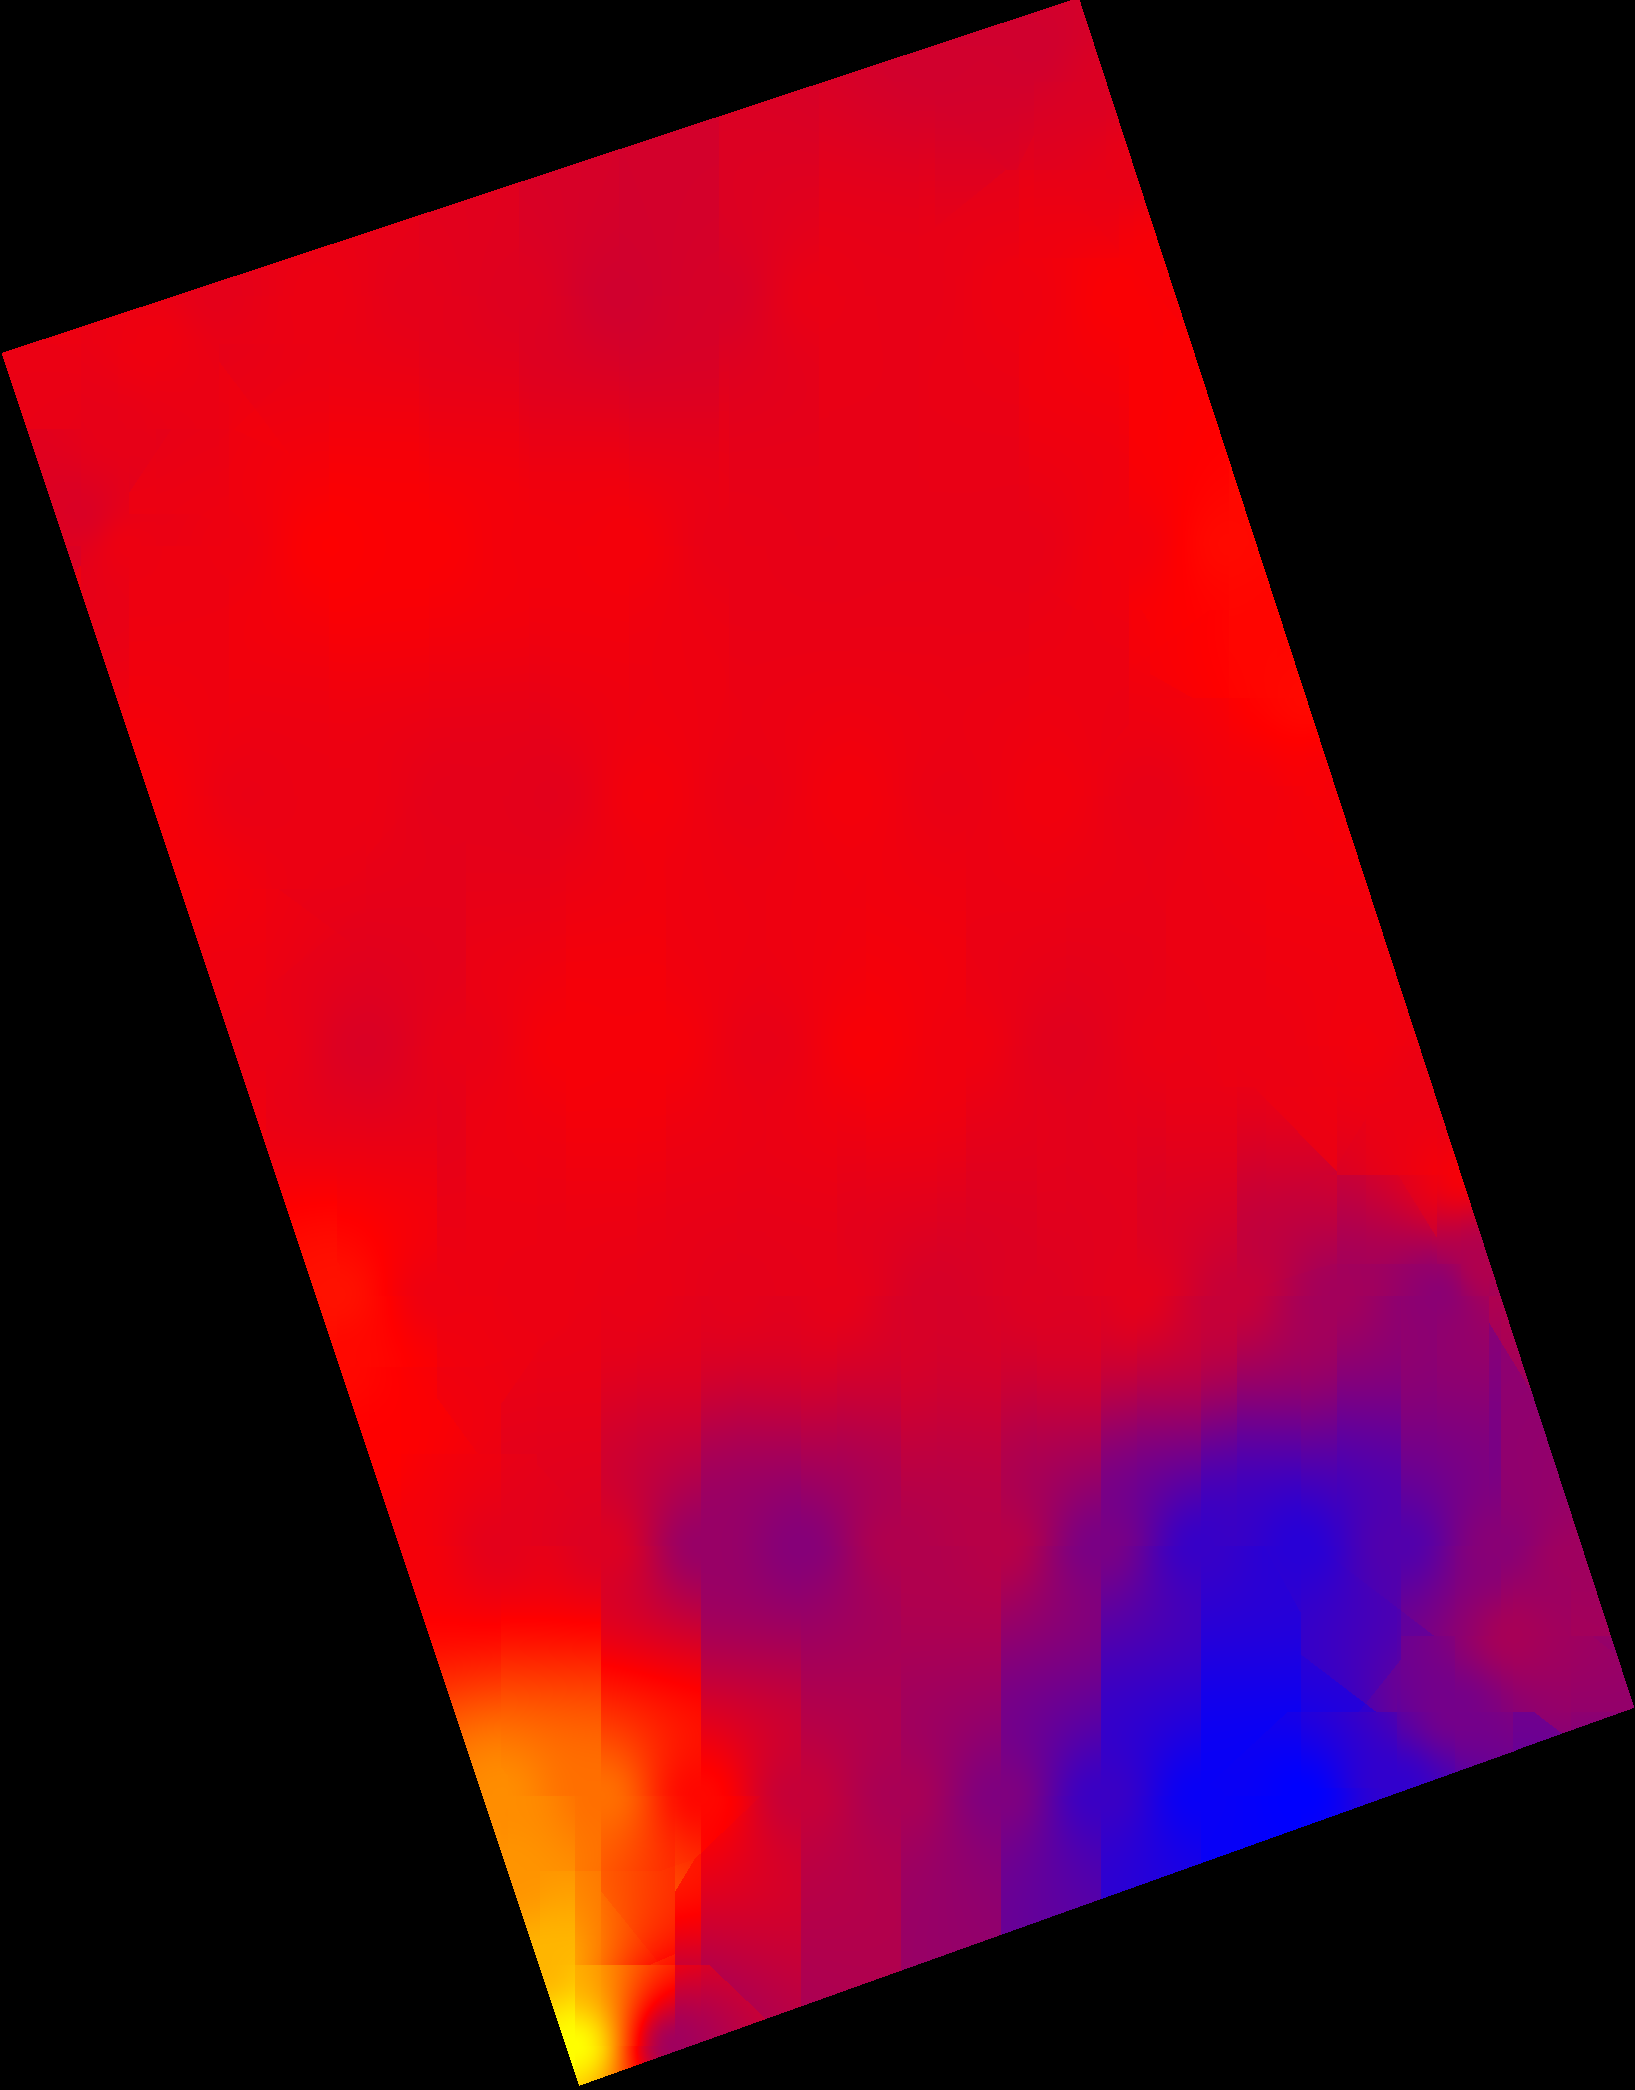
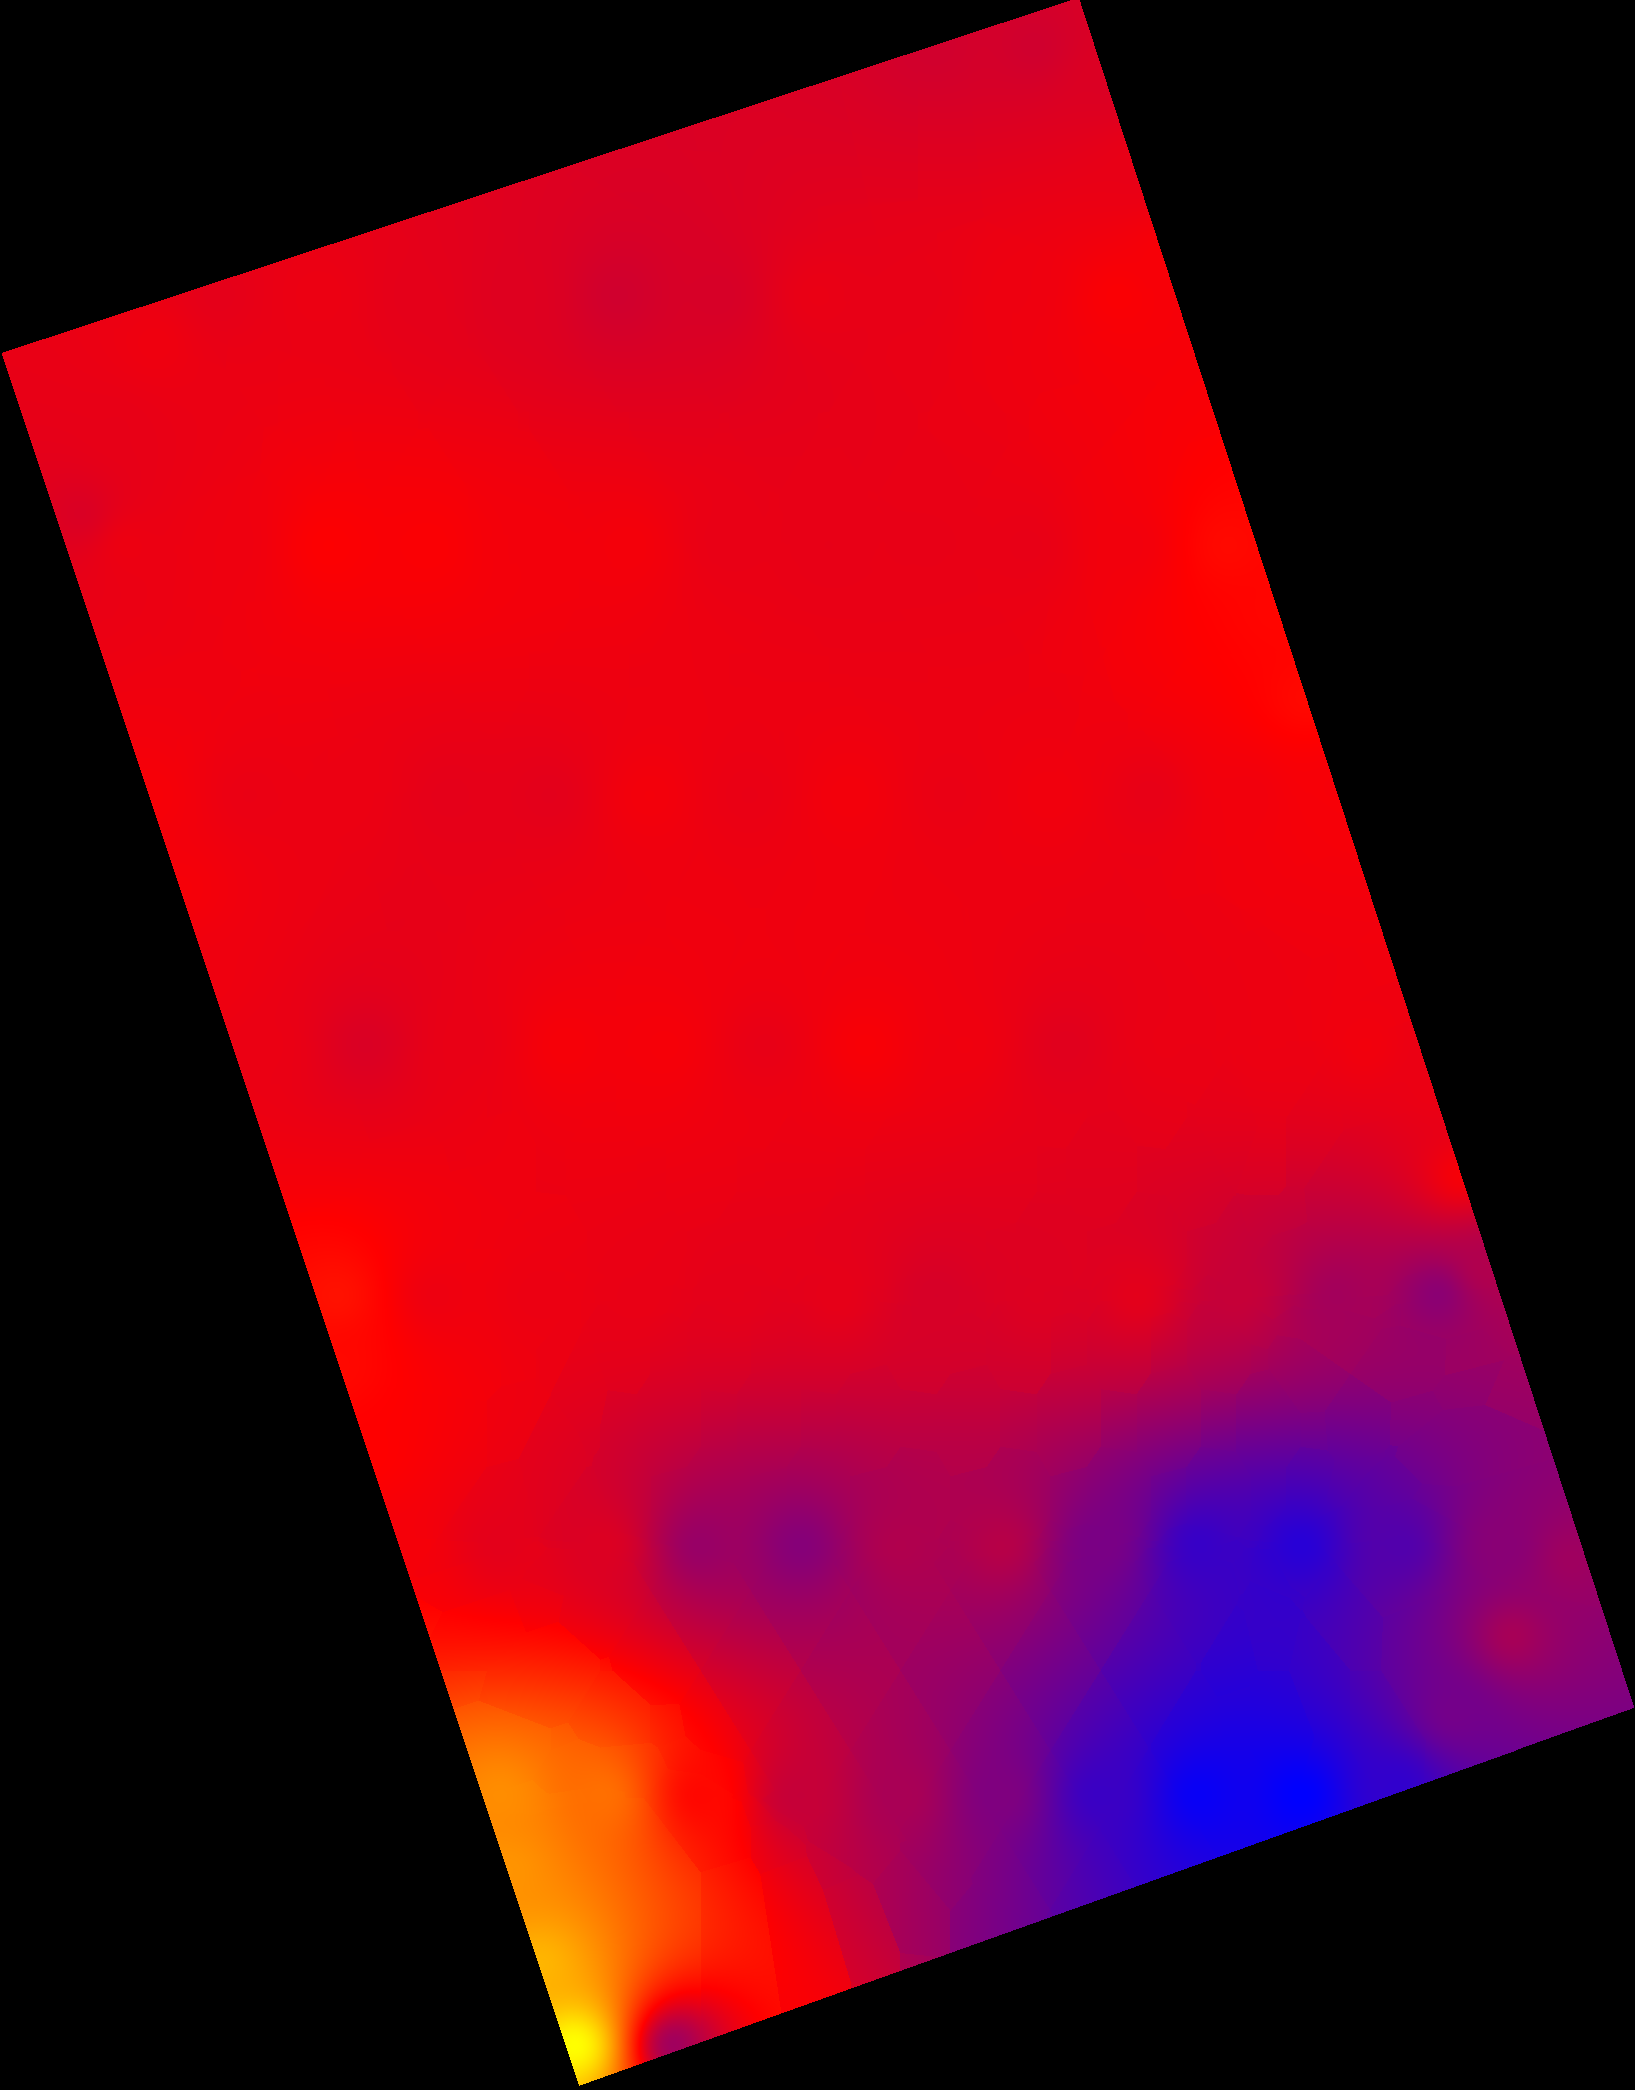
algoritmo con kdtrees

diff --git a/simulations/src/processing/interpolation.rs b/simulations/src/processing/interpolation.rs
@@ -1,3 +1,5 @@
+use kiddo::{KdTree, SquaredEuclidean};
+
 use crate::structs::depth_matrix::DepthMatrix;
 use crate::processing::measuring::calculate_distance_between_points;
 
@@ -60,95 +62,168 @@ pub fn interpolacion_jullen_theorem(measuring_points: &Vec<(usize, usize)>, meas
     interpolation
 }
 
-pub fn interpolacion_reintento(
-    measuring_points: &Vec<(usize, usize)>,
-    matrix: &Vec<Vec<f64>>,
-    geotiff: &DepthMatrix,
-) -> Vec<Vec<f64>> {
-    let no_data = geotiff.no_data.unwrap_or(f64::MAX);
+// pub fn interpolacion_reintento(
+//     measuring_points: &Vec<(usize, usize)>,
+//     matrix: &Vec<Vec<f64>>,
+//     geotiff: &DepthMatrix,
+// ) -> Vec<Vec<f64>> {
+//     let no_data = geotiff.no_data.unwrap_or(f64::MAX);
+//     let mut result = vec![vec![0.0; matrix[0].len()]; matrix.len()];
+
+//     for j in 0..matrix.len() {
+//         for i in 0..matrix[0].len() {
+//             if geotiff.data[j][i] == no_data {
+//                 result[j][i] = no_data;
+//             } else if matrix[j][i] != 0.0 {
+//                 result[j][i] = matrix[j][i];
+//             } else {
+//                 let vecinos = pick_by_quadrant(measuring_points, matrix, (i, j));
+
+//                 let mut weighted_sum = 0.0;
+//                 let mut weight_total = 0.0;
+//                 for (dist, val) in &vecinos {
+//                     if *dist == 0.0 { result[j][i] = *val; break; }
+//                     let weight = 1.0 / dist.powf(2.0);
+//                     weighted_sum += val * weight;
+//                     weight_total += weight;
+//                 }
+//                 if weight_total > 0.0 {
+//                     result[j][i] = weighted_sum / weight_total;
+//                 }
+//             }
+//         }
+//     }
+//     result
+// }
+
+// fn calculate_estimated_value(
+//     measures: &Vec<(usize, usize)>,
+//     matrix: &Vec<Vec<f64>>,
+//     current_point: (usize, usize),
+// ) -> f64 {
+//     let mut weighted_sum = 0.0;
+//     let mut weight_total = 0.0;
+
+//     for point in measures {
+//         let dx = current_point.0 as f64 - point.0 as f64;
+//         let dy = current_point.1 as f64 - point.1 as f64;
+//         let dist = (dx * dx + dy * dy).sqrt();
+
+//         if dist == 0.0 {
+//             return matrix[point.1][point.0];
+//         }
+
+//         let weight = 1.0 / dist;
+//         weighted_sum += matrix[point.1][point.0] * weight;
+//         weight_total += weight;
+//     }
+
+//     weighted_sum / weight_total
+// }
+
+// fn pick_by_quadrant(
+//     measures: &Vec<(usize, usize)>,
+//     matrix: &Vec<Vec<f64>>,
+//     current_point: (usize, usize),
+// ) -> Vec<(f64, f64)> {
+//     // NE, NW, SE, SW
+//     let mut quadrants: [Option<(f64, f64)>; 4] = [None; 4];
+
+//     for point in measures {
+//         let dx = point.0 as f64 - current_point.0 as f64;
+//         let dy = point.1 as f64 - current_point.1 as f64;
+//         let dist = (dx * dx + dy * dy).sqrt();
+
+//         if dist == 0.0 {
+//             return vec![(0.0, matrix[point.1][point.0])];
+//         }
+
+//         let val = matrix[point.1][point.0];
+//         let idx = match (dx >= 0.0, dy >= 0.0) {
+//             (true,  true)  => 0, // SE
+//             (false, true)  => 1, // SW
+//             (true,  false) => 2, // NE
+//             (false, false) => 3, // NW
+//         };
+
+//         // Guardamos el más cercano de cada cuadrante
+//         if quadrants[idx].is_none() || dist < quadrants[idx].unwrap().0 {
+//             quadrants[idx] = Some((dist, val));
+//         }
+//     }
+
+//     quadrants.iter().filter_map(|q| *q).collect()
+// }
+
+//Usamos la misma logica que venimos usando de idw, pero esta estara limitada por los puntos mas cercanos.
+//El Kdtree es solo para reducir el tiempo de busqueda.
+pub fn interpolation_idw_kdtrees(measuring_points: &Vec<(usize, usize)>, matrix: &Vec<Vec<f64>>, geotiff: &DepthMatrix) -> Vec<Vec<f64>> {
+    
+    let no_data: f64 = match geotiff.no_data {
+        Some(val) => val,      
+        None => f64::MAX,  
+    };
+
     let mut result = vec![vec![0.0; matrix[0].len()]; matrix.len()];
+
+    // Construimos el KD-tree con los puntos medidos
+    let mut kdtree: KdTree<f64, 2> = KdTree::new();
+    let mut values: Vec<f64> = Vec::new();
+
+    for point in measuring_points {
+        let depth = matrix[point.1][point.0];
+        if depth != 0.0 && depth != no_data {
+            kdtree.add(&[point.0 as f64, point.1 as f64], values.len() as u64);
+            values.push(depth);
+        }
+    }
+
+    if values.is_empty() {
+        return result;
+    }
 
     for j in 0..matrix.len() {
         for i in 0..matrix[0].len() {
             if geotiff.data[j][i] == no_data {
                 result[j][i] = no_data;
-            } else if matrix[j][i] != 0.0 {
-                result[j][i] = matrix[j][i];
-            } else {
-                let vecinos = pick_by_quadrant(measuring_points, matrix, (i, j));
+                continue;
+            }
 
-                let mut weighted_sum = 0.0;
-                let mut weight_total = 0.0;
-                for (dist, val) in &vecinos {
-                    if *dist == 0.0 { result[j][i] = *val; break; }
-                    let weight = 1.0 / dist.powf(2.0);
-                    weighted_sum += val * weight;
-                    weight_total += weight;
+            if matrix[j][i] != 0.0 {
+                result[j][i] = matrix[j][i];
+                continue;
+            }
+
+            //Es por este bloque que usamos kiddo.
+            //Lo usammos para encontrar los 8 vecinos cercanos, y almacena la distancia y valor.
+            let neighbours = kdtree.nearest_n::<SquaredEuclidean>(
+                &[i as f64, j as f64],
+                8,
+            );
+
+            let mut weighted_sum = 0.0;
+            let mut weight_total = 0.0;
+
+            for neighbour in neighbours {
+                let dist = neighbour.distance.sqrt();
+                let val = values[neighbour.item as usize];
+
+                if dist == 0.0 {
+                    weighted_sum = val;
+                    weight_total = 1.0;
+                    break;
                 }
-                if weight_total > 0.0 {
-                    result[j][i] = weighted_sum / weight_total;
-                }
+
+                let weight = 1.0 / dist.powf(2.0);
+                weighted_sum += val * weight;
+                weight_total += weight;
+            }
+
+            if weight_total > 0.0 {
+                result[j][i] = weighted_sum / weight_total;
             }
         }
     }
+
     result
-}
-
-fn calculate_estimated_value(
-    measures: &Vec<(usize, usize)>,
-    matrix: &Vec<Vec<f64>>,
-    current_point: (usize, usize),
-) -> f64 {
-    let mut weighted_sum = 0.0;
-    let mut weight_total = 0.0;
-
-    for point in measures {
-        let dx = current_point.0 as f64 - point.0 as f64;
-        let dy = current_point.1 as f64 - point.1 as f64;
-        let dist = (dx * dx + dy * dy).sqrt();
-
-        if dist == 0.0 {
-            return matrix[point.1][point.0];
-        }
-
-        let weight = 1.0 / dist;
-        weighted_sum += matrix[point.1][point.0] * weight;
-        weight_total += weight;
-    }
-
-    weighted_sum / weight_total
-}
-
-fn pick_by_quadrant(
-    measures: &Vec<(usize, usize)>,
-    matrix: &Vec<Vec<f64>>,
-    current_point: (usize, usize),
-) -> Vec<(f64, f64)> {
-    // NE, NW, SE, SW
-    let mut quadrants: [Option<(f64, f64)>; 4] = [None; 4];
-
-    for point in measures {
-        let dx = point.0 as f64 - current_point.0 as f64;
-        let dy = point.1 as f64 - current_point.1 as f64;
-        let dist = (dx * dx + dy * dy).sqrt();
-
-        if dist == 0.0 {
-            return vec![(0.0, matrix[point.1][point.0])];
-        }
-
-        let val = matrix[point.1][point.0];
-        let idx = match (dx >= 0.0, dy >= 0.0) {
-            (true,  true)  => 0, // SE
-            (false, true)  => 1, // SW
-            (true,  false) => 2, // NE
-            (false, false) => 3, // NW
-        };
-
-        // Guardamos el más cercano de cada cuadrante
-        if quadrants[idx].is_none() || dist < quadrants[idx].unwrap().0 {
-            quadrants[idx] = Some((dist, val));
-        }
-    }
-
-    quadrants.iter().filter_map(|q| *q).collect()
 }

diff --git a/simulations/src/main.rs b/simulations/src/main.rs
@@ -3,7 +3,7 @@ use std::io::Write;
 
 use crate::processing::measuring::{MeasureMode, get_measures, get_points_circular_to_this, get_points_perpendicular_to_this};
 use crate::processing::images::{process_depth};
-use crate::processing::interpolation::{interpolacion_jullen_theorem, interpolacion_reintento};
+use crate::processing::interpolation::{interpolacion_jullen_theorem, interpolation_idw_kdtrees};
 mod processing;
 mod structs;
 
@@ -79,7 +79,7 @@ fn main() {
 
     // // --- Escritura de archivos ---
 
-    let interpolacion = interpolacion_reintento(&puntos_a_medir, &full_matrix_perp, &matrix);
+    let interpolacion = interpolation_idw_kdtrees(&puntos_a_medir, &full_matrix_perp, &matrix);
 
     process_depth(&interpolacion);
     // //process_depth(&matrix.data);
